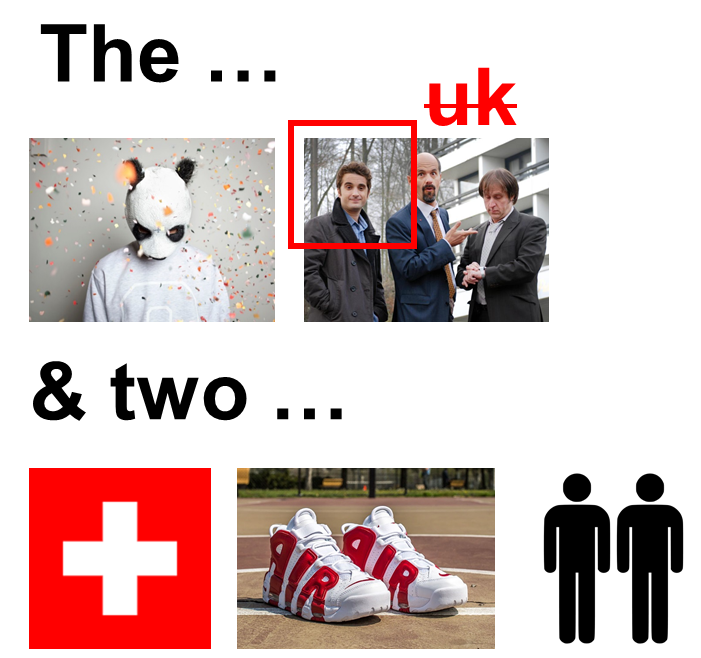
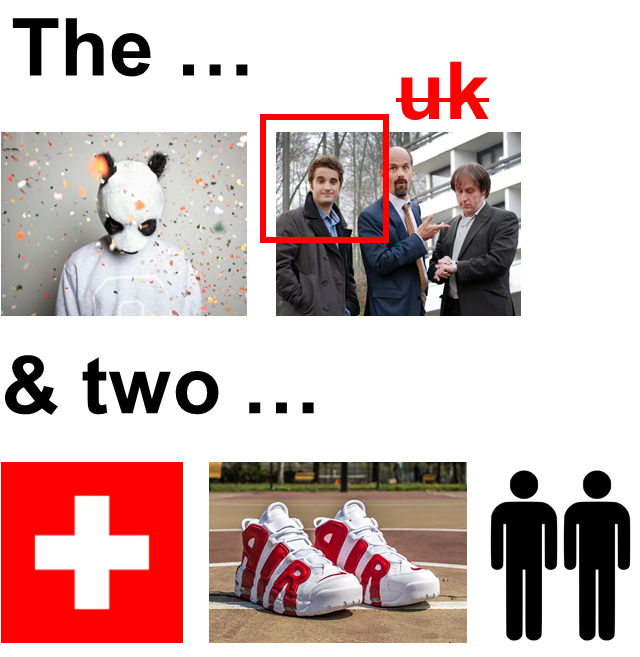
Add files via upload

diff --git a/index.html b/index.html
@@ -3,12 +3,27 @@
 <html>
 
 <head>
+<style>
+img {
+    max-width: 100%;
+    height: auto;
+    width: auto\9; /* ie8 */
+}
+.center {
+    margin: auto;
+    width: 85%;
+}
+input {
+	font-size:20px;
+}
+</style>
 <script>
 	function validateForm() {
     var x = document.forms["myForm"]["fname"].value;
     if (x == "The crown & two chairmen") {
+    	//location.reload();
     	document.getElementById('theImage').src="./Slide2.PNG";
-    	window.scrollTo(0, 0);
+    	//window.scrollTo(0, 0);
         return false;
     }
 }
@@ -16,12 +31,14 @@
 </head>
 
 <body>
+<div class="center">
 <img id="theImage" src="./Slide1.PNG" alt="...">
-</body>
+
 
  <form name="myForm" onsubmit="return validateForm()">
-<input type="text" name="fname" size="40">
+<input type="text" name="fname" size="25">
 <input type="submit" value="Submit">
 </form>
-
+</div>
+</body>
 </html>
